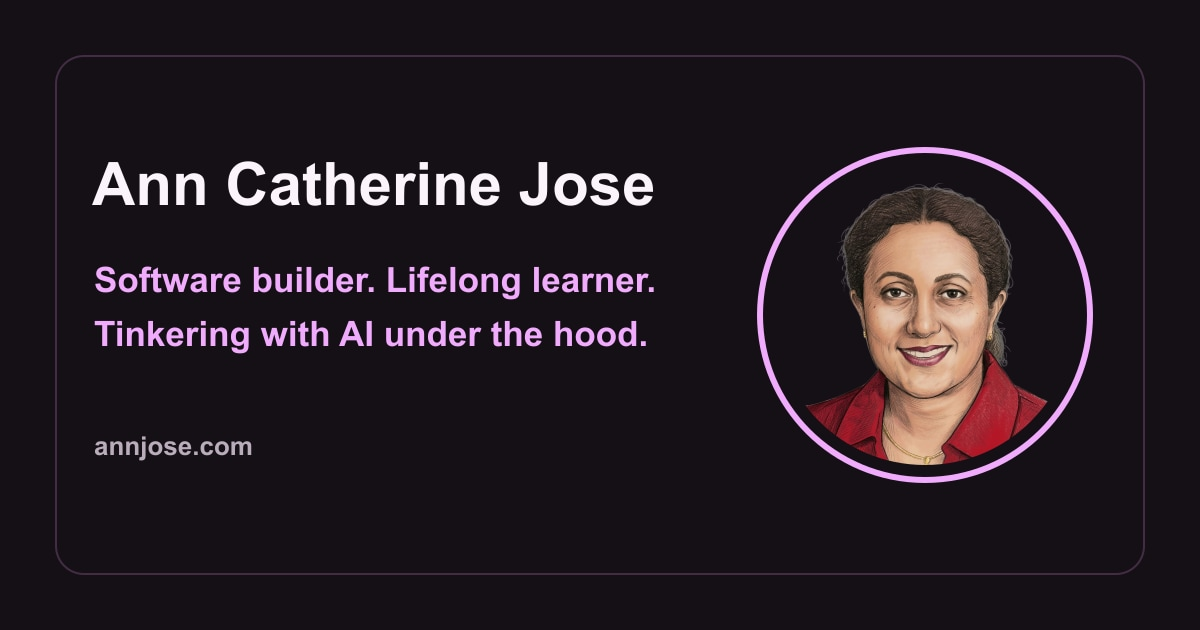
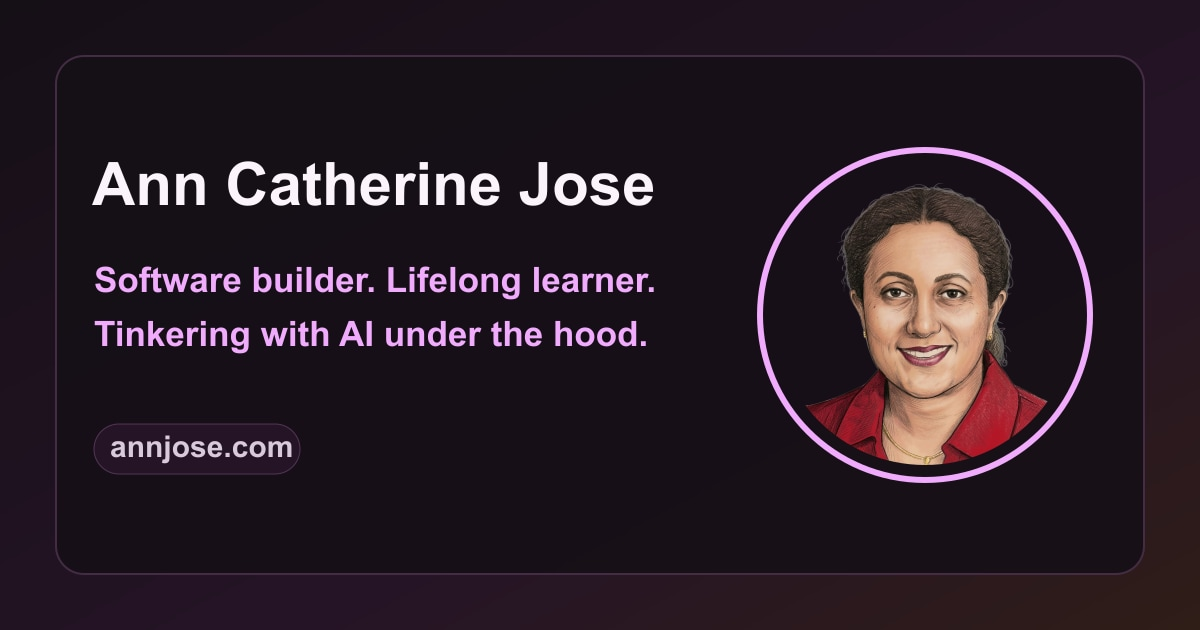
Enhance OG templates with gradient backgrounds and improved styling for website url

Changed region(s): [[0.8633, 0.8746, 1.0, 1.0], [0.0617, 0.6635, 0.2467, 0.754]]

diff --git a/src/utils/og-templates/site.js b/src/utils/og-templates/site.js
@@ -19,7 +19,8 @@ export default async () => {
       type: "div",
       props: {
         style: {
-          background: "#fefbfb",
+          background:
+            "linear-gradient(135deg, #fbfafc 0%, #fbf0fb 58%, #fff7ed 100%)",
           fontFamily,
           width: "100%",
           height: "100%",
@@ -33,7 +34,7 @@ export default async () => {
             props: {
               style: {
                 border: "2px solid #eadceb",
-                background: "#fefbfb",
+                background: "rgba(251, 250, 252, 0.88)",
                 borderRadius: "28px",
                 display: "flex",
                 justifyContent: "center",
@@ -126,12 +127,20 @@ export default async () => {
                             },
                           },
                           {
-                            type: "p",
+                            type: "div",
                             props: {
                               style: {
+                                display: "flex",
+                                alignItems: "center",
+                                justifyContent: "center",
+                                alignSelf: "flex-start",
                                 margin: "72px 0 0",
-                                color: "#625967",
-                                fontSize: 28,
+                                padding: "10px 16px",
+                                border: "1px solid #e8cce9",
+                                borderRadius: "9999px",
+                                background: "#fbf0fb",
+                                color: "#4f4654",
+                                fontSize: 30,
                                 fontWeight: 700,
                               },
                               children: new URL(SITE.website).hostname,
